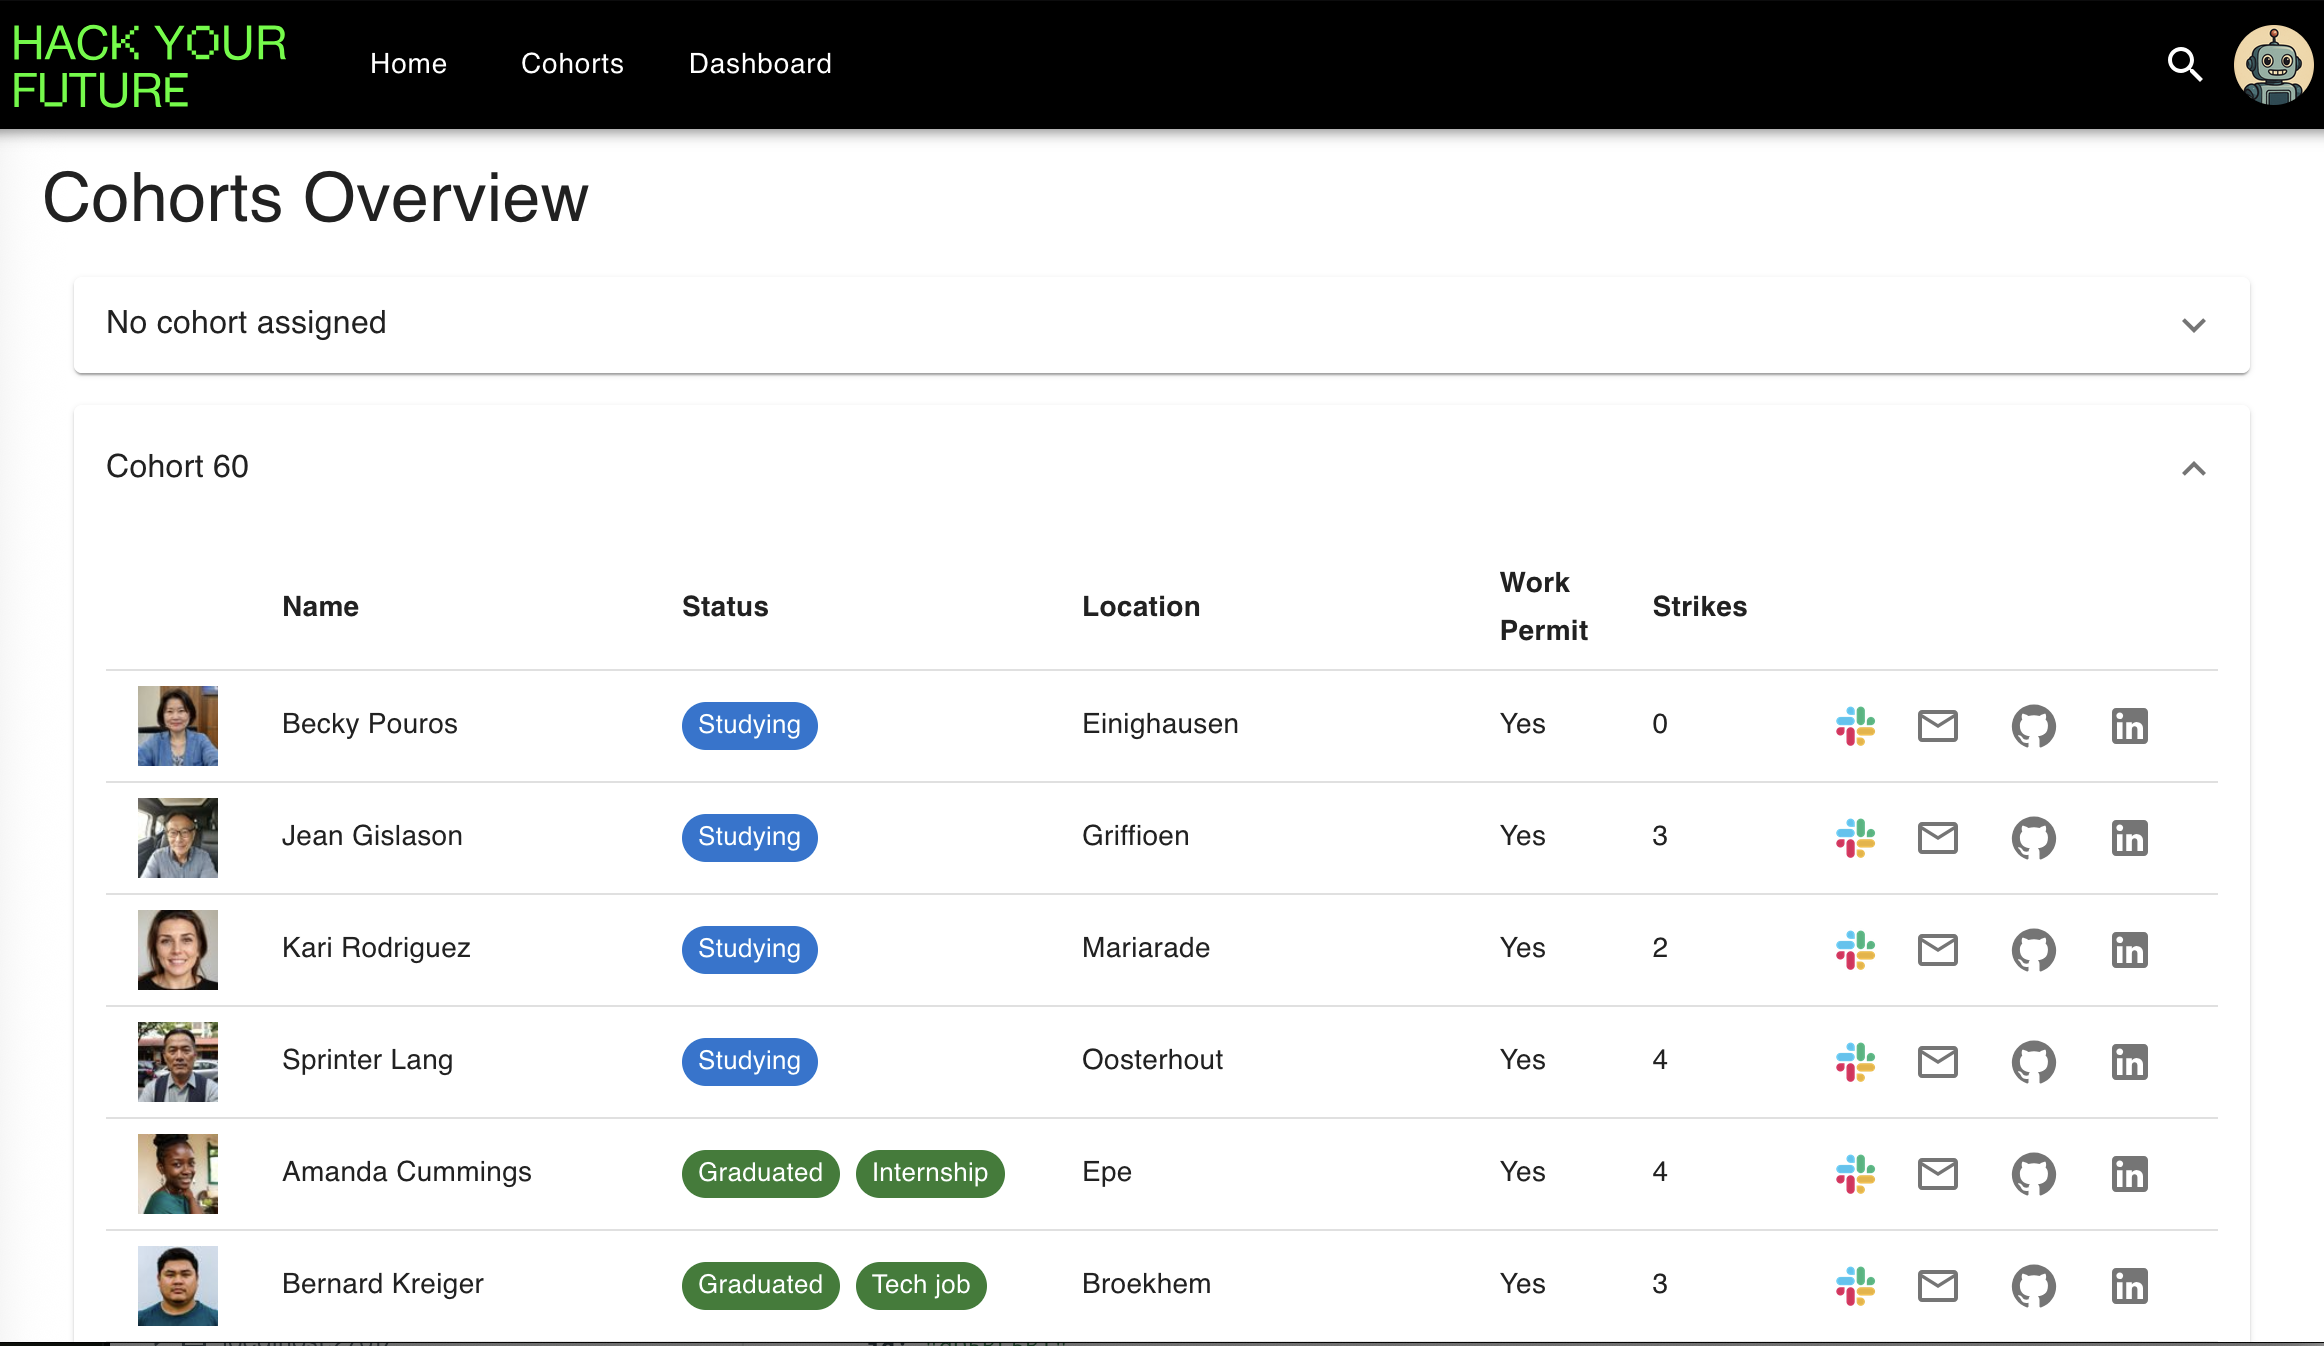
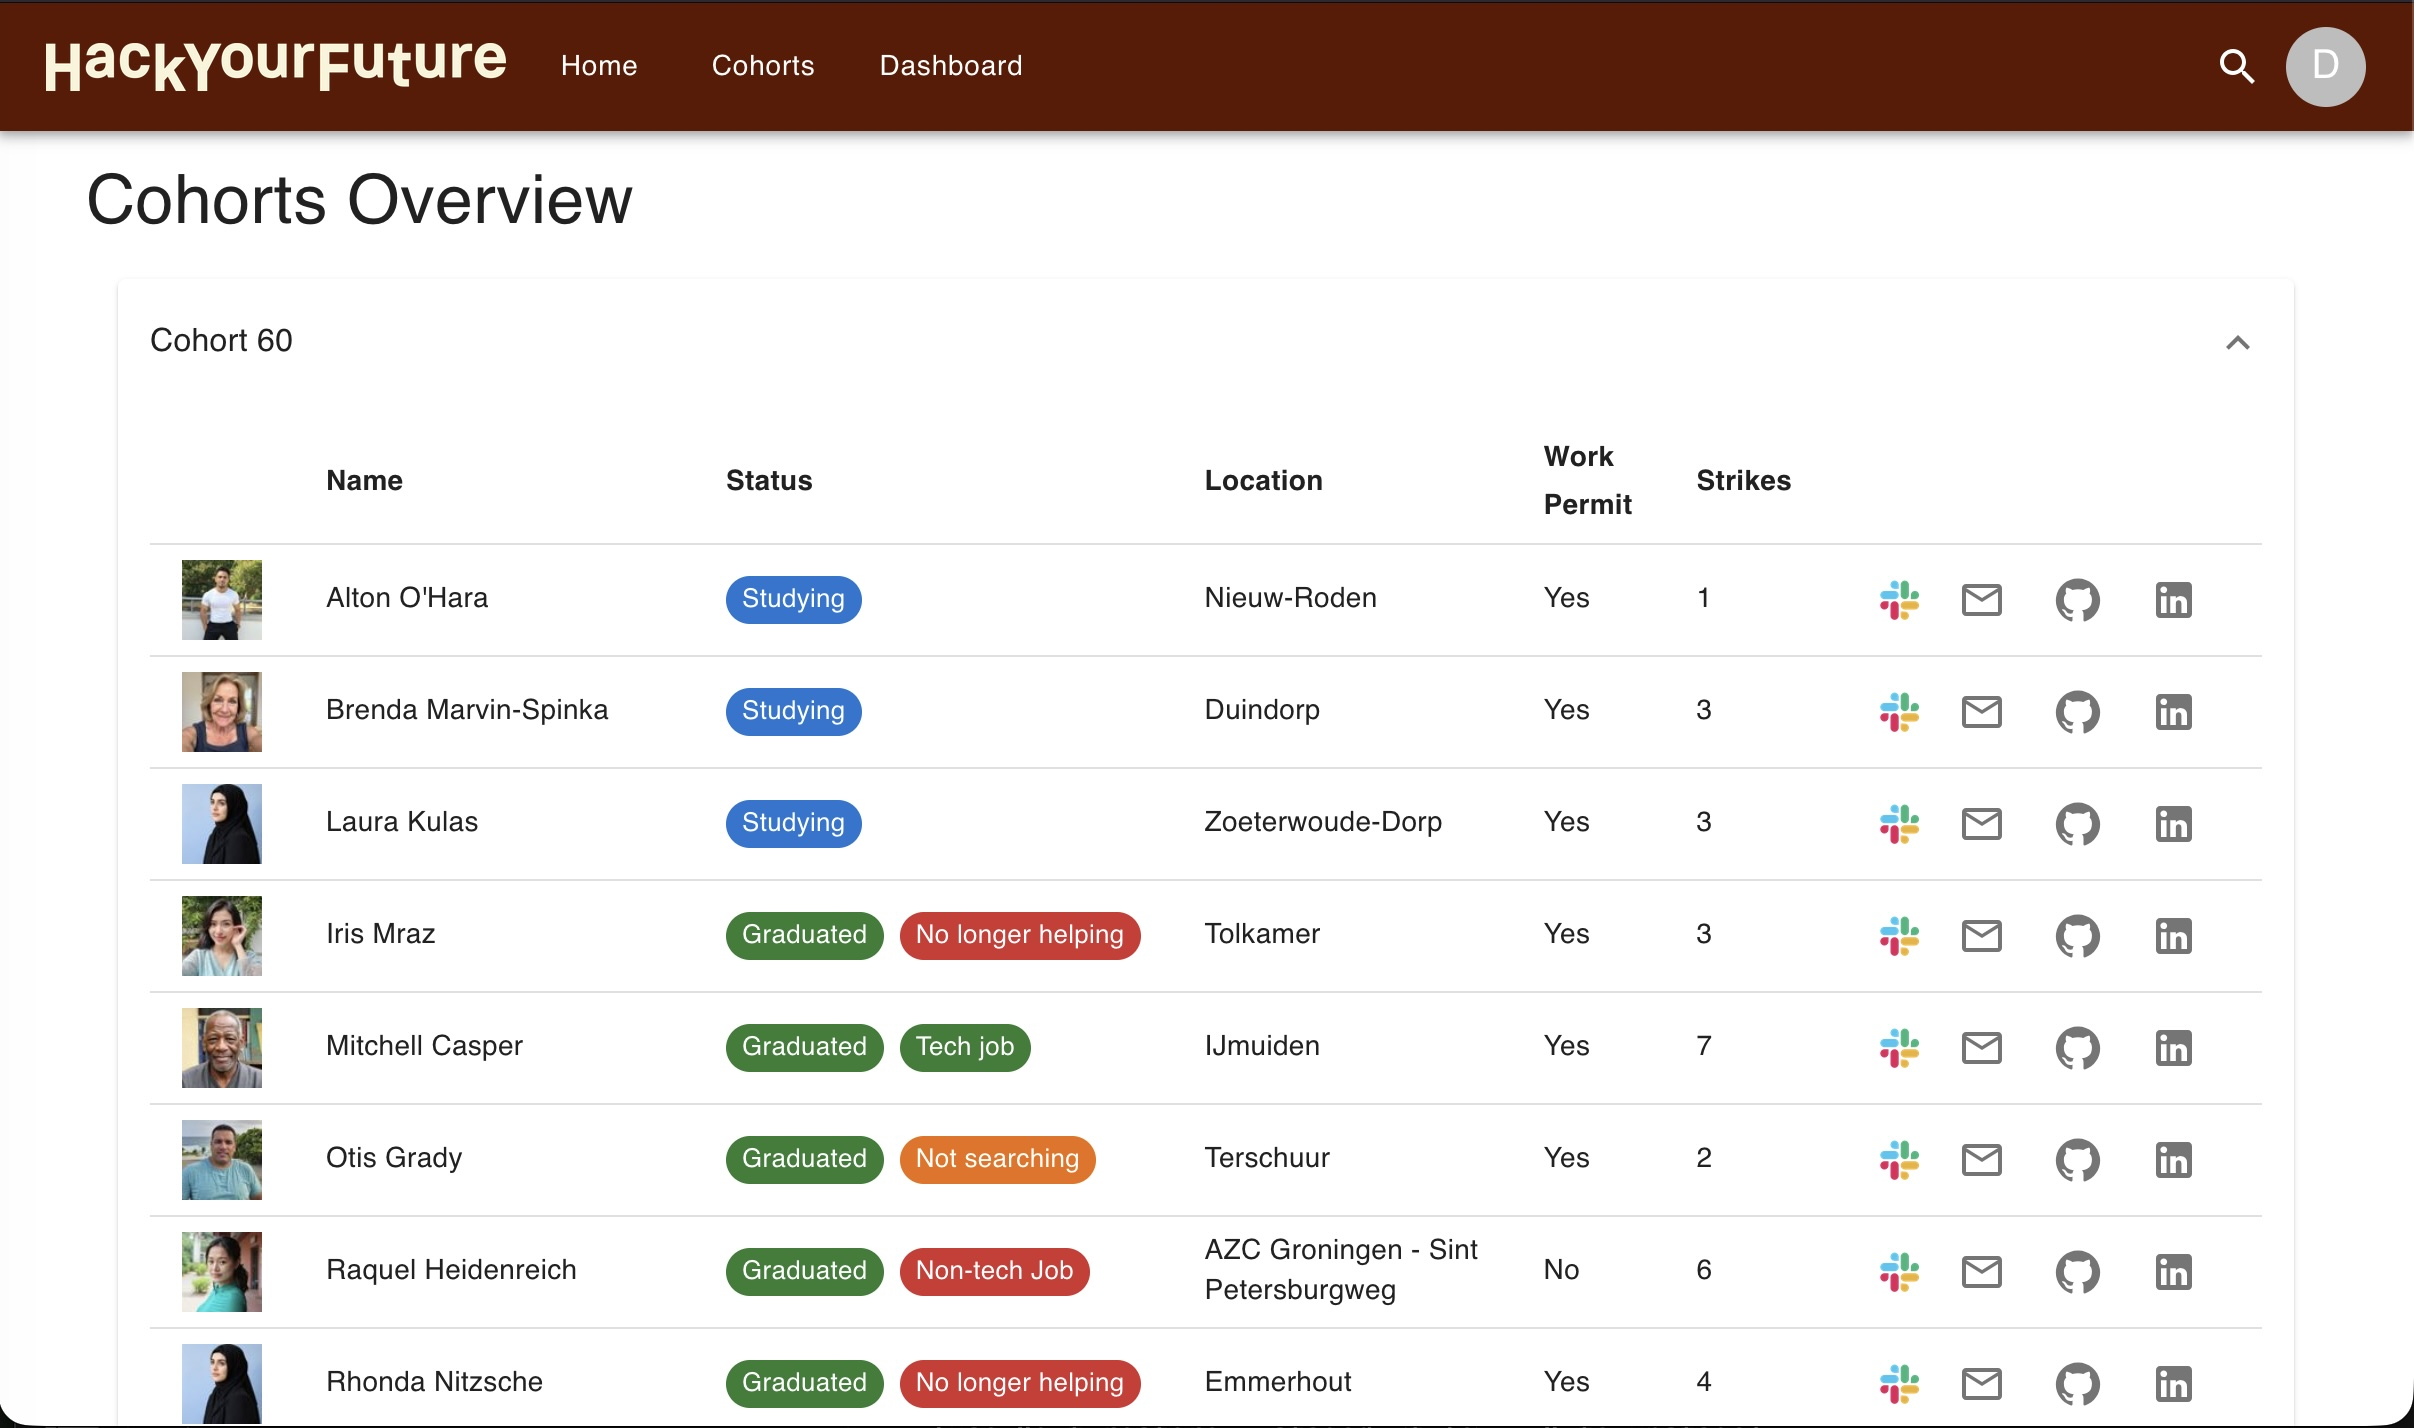
Update branding assets and styles according to the new design (#273)

diff --git a/client/src/components/ResponsiveNavBar.tsx b/client/src/components/ResponsiveNavBar.tsx
@@ -1,5 +1,5 @@
 import * as React from 'react';
-import HYFLogo from '../assets/HYF_logo.svg';
+import HYFLogo from '../assets/hyf-logo-beige.png';
 import SearchIcon from '@mui/icons-material/Search';
 import MenuIcon from '@mui/icons-material/Menu';
 import { useAuth } from '../hooks';
@@ -64,12 +64,12 @@ export const ResponsiveNavBar = () => {
 
   return (
     <Box sx={{ flexGrow: 1 }}>
-      <AppBar position="static" sx={{ bgcolor: 'black' }}>
+      <AppBar position="static" sx={{ backgroundColor: '#5E1600' }}>
         <Container maxWidth={false}>
           <Toolbar disableGutters>
             <Box component="div">
               <Link to="/home">
-                <img src={HYFLogo} height="60" alt="HYF navbar logo" className="hyf-navbar-logo-img" />
+                <img src={HYFLogo} height="40" alt="HYF navbar logo" className="hyf-navbar-logo-img" />
               </Link>
             </Box>
 

diff --git a/client/src/styles/index.css b/client/src/styles/index.css
@@ -15,6 +15,7 @@ body {
   text-rendering: optimizeLegibility;
   -webkit-font-smoothing: antialiased;
   -moz-osx-font-smoothing: grayscale;
+  --hyf-beige: #faf5d9;
 }
 
 @media (prefers-color-scheme: light) {
@@ -27,8 +28,10 @@ body {
 
 .hyf-navbar-logo-img {
   max-width: 100%;
+  height: 20px;
   vertical-align: middle;
-  padding: 8px 0;
+  padding: 0;
+  margin-right: 15px;
   display: inline-block;
   border: 0;
   box-sizing: border-box;
@@ -45,8 +48,7 @@ body {
 }
 
 .hyf-logo-img {
-  height: 100px;
-  background-color: black;
+  height: 70px;
   padding: 10px;
   margin-bottom: 50px;
 }
@@ -70,13 +72,6 @@ body {
   flex-direction: column;
   align-items: center;
   min-width: 200px;
-}
-
-.hyf-logo-img {
-  height: 100px;
-  background-color: black;
-  padding: 10px;
-  margin-bottom: 50px;
 }
 
 .input-wrapper {

diff --git a/client/src/components/SidebarLearningStatus.tsx b/client/src/components/SidebarLearningStatus.tsx
@@ -17,7 +17,7 @@ export const SidebarLearningStatus = ({ learningStatus }: LearningStatusProps) =
   const chipColor = (status: LearningStatus | undefined) => {
     switch (status) {
       case LearningStatus.Studying:
-        return 'primary';
+        return 'info';
       case LearningStatus.Graduated:
         return 'success';
       case LearningStatus.OnHold:

diff --git a/client/src/pages/SearchPage.tsx b/client/src/pages/SearchPage.tsx
@@ -2,7 +2,7 @@ import { ErrorBox, SearchBar, SearchResultsList } from '../components';
 import { useCallback, useEffect, useState } from 'react';
 
 import { Box } from '@mui/material';
-import HYFLogo from '../assets/HYF_logo.svg';
+import HYFLogo from '../assets/hyf-logo-red.png';
 import { useTraineeSearchData } from '../hooks/useTraineeSearchData';
 
 /**

diff --git a/client/index.html b/client/index.html
@@ -2,7 +2,7 @@
 <html lang="en">
   <head>
     <meta charset="UTF-8" />
-    <link href="src/assets/HYF_icon.jpeg" rel="icon" type="image/x-icon">
+    <link href="src/assets/favicon.png" rel="icon" type="image/x-icon" />
     <meta name="viewport" content="width=device-width, initial-scale=1.0" />
     <title>Dojo Project</title>
   </head>

diff --git a/client/src/main.tsx b/client/src/main.tsx
@@ -12,6 +12,15 @@ import { RouterProvider } from 'react-router-dom';
 import { router } from './routes';
 
 const theme = createTheme({
+  palette: {
+    mode: 'light',
+    primary: {
+      main: '#B12900',
+    },
+    background: {
+      default: '#ffffff',
+    },
+  },
   typography: {
     button: {
       textTransform: 'none',

diff --git a/client/src/components/SidebarJobPath.tsx b/client/src/components/SidebarJobPath.tsx
@@ -18,7 +18,7 @@ export const SidebarJobPath = ({ jobPath }: JobPathProps) => {
   const jobChipColor = (status: JobPath | string) => {
     switch (status) {
       case JobPath.Searching:
-        return 'primary';
+        return 'info';
       case JobPath.Internship:
       case JobPath.TechJob:
         return 'success';

diff --git a/client/src/components/ProfileSidebar.tsx b/client/src/components/ProfileSidebar.tsx
@@ -31,7 +31,7 @@ export const ProfileSidebar = ({ traineeId }: ProfileSidebarProps) => {
       alignItems="center"
       gap={2}
       color="black"
-      bgcolor="#d1fbe6"
+      bgcolor="var(--hyf-beige)"
       height="100vh"
       paddingX={4}
       paddingY={4}

diff --git a/client/src/pages/LoginPage.tsx b/client/src/pages/LoginPage.tsx
@@ -1,4 +1,4 @@
-import HYFLogo from '../assets/HYF_logo.svg';
+import HYFLogo from '../assets/hyf-logo-red.png';
 import { useAuth } from '../hooks';
 import { ErrorBox } from '../components';
 import { Button, Stack } from '@mui/material';
